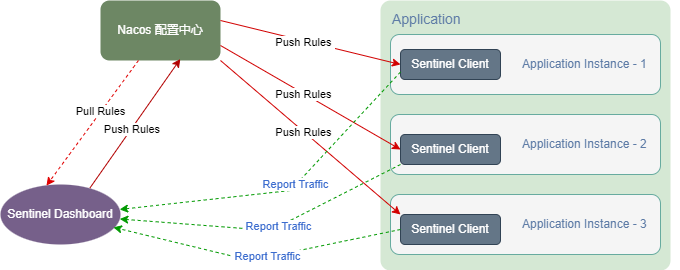
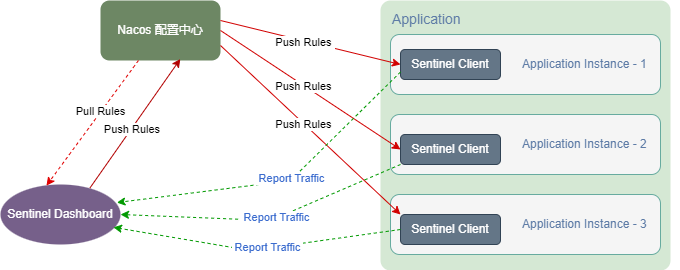
~~~

diff --git a/misc/doc/sentinel.md b/misc/doc/sentinel.md
@@ -10,7 +10,7 @@
 ## 二、安装启动 Sentinel Dashboard
 
 1. 把 [misc/sentinel](../../misc/sentinel) 目录下的文件拷贝到目标目录。
-2. 修改`start-sendinel-dashboard.sh (.bat)`启动脚本，调整 Sentinel Dashboard 配置。
+2. 修改`start-sendinel-dashboard.sh (.bat)`启动脚本，调整 Sentinel Dashboard 配置（详细配置参考：[Sentinel控制台文档](https://sentinelguard.io/zh-cn/docs/dashboard.html)）。
 3. 执行`start-sendinel-dashboard.sh (.bat)`启动脚本，启动 Sentinel Dashboard 应用程序。
 
 - [start-sendinel-dashboard.sh](../../misc/sentinel/start-sendinel-dashboard.sh) 启动脚本示例：
